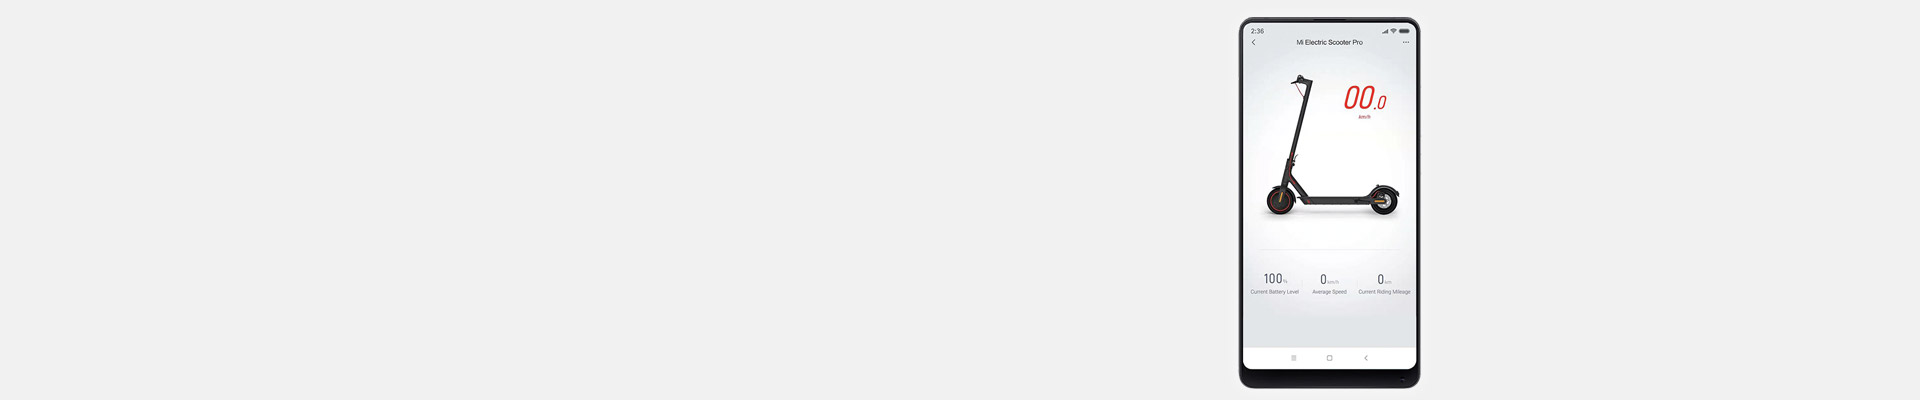
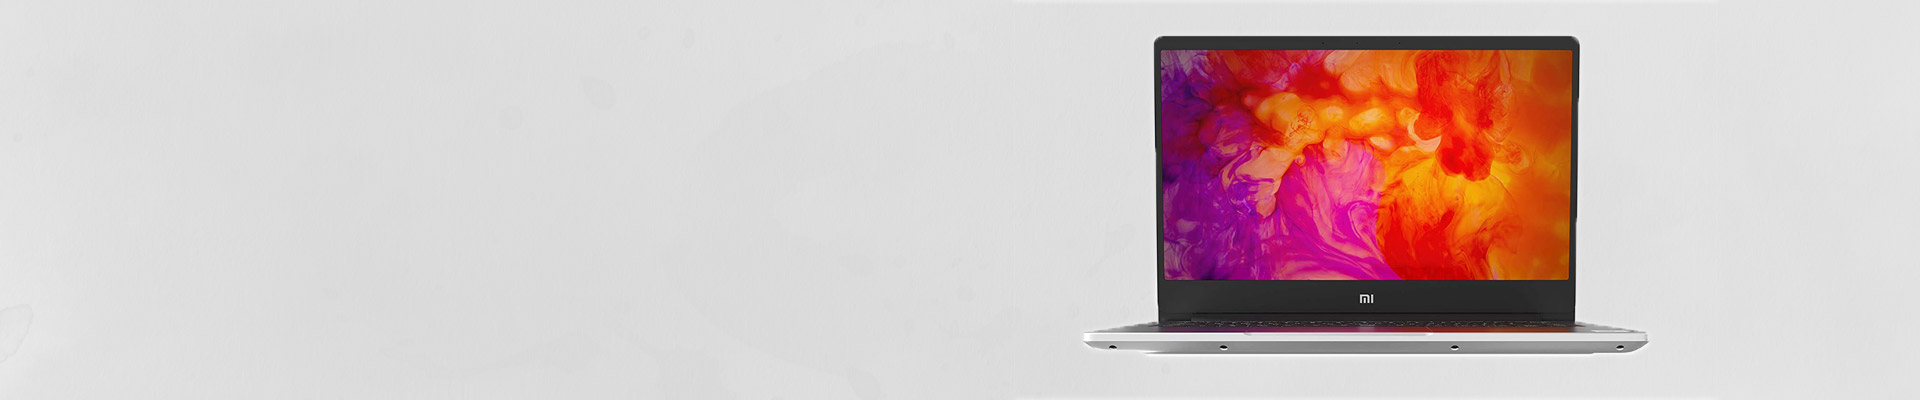
the latest version with no mistakes

Changed region(s): [[0.5625, 0.03, 0.875, 0.99], [0.3438, 0.96, 0.375, 1.0]]

diff --git a/Xiaomi-website/index.htm b/Xiaomi-website/index.htm
@@ -5,11 +5,14 @@
     <meta http-equiv="X-UA-Compatible" content="IE=edge">
     <meta name="viewport" content="width=device-width, initial-scale=1.0">
     <title>Xiaomi code test</title>
-    <link rel="stylesheet" href="mi.css">
+    <link rel="stylesheet" href="header-and-footer.css">
+    <link rel="stylesheet" href="body.css">
 </head>
 <body>
-    <div class="upperbarflex">
-        <div class="logo"><img src="logo.svg" alt="Xiaomi logo" alt="Xiaomi logo"></div>
+    <!-- START HEADER -->
+    <!-- Main bar with navigation and logo-->
+    <div id="upperbarflex">
+        <div class="logo"><img src="logo.svg" alt="Xiaomi logo"></div>
         <div class="middlefreespace"></div>
         <div class="rightnavi">
             <ul>
@@ -18,6 +21,7 @@
             </ul>
         </div>
     </div>
+    <!-- website's navigation menu-->
     <div class="navibar">
         <ul class=navibar2>
             <li><a href="#">Mi phones</a></li>
@@ -28,25 +32,81 @@
             <li><a href="#">Press & Media</a></li>
         </ul>
     </div>
+    <!-- main big laptop photo with description-->
     <div class="slideshow">
         <div class="flexbox2">
-            <div class="containerleft">
-            </div>
             <div class="containerright">
                 <br>
                 <br>
                 <br>
-                <h3>The new E-scooter is here</h3>
-                <p>Das kinetische System zur Rückgewinnung von Energie (KERS) wurde komplett überarbeitet und die Effizienz der Energieumwandlung zusätzlich verbessert. Das System ist in der Lage, kinetische Energie aus jedem Bremsvorgang und jedem Freilauf ohne Motorunterstützung in verwendbare elektrische Energie umzuwandeln, um die Reichweite der Motorunterstützung zu erweitern. Die Effizienz der Energie-Rückgewinnung kann über die Mi Home-App an Ihre persönlichen Anforderungen angepasst werden.</p>
+                <h3>Meet the new Mi Notebook 14</h3>
+                <p>Lorem ipsum dolor sit amet, consectetur adipiscing elit, sed do eiusmod tempor incididunt ut labore et dolore magna aliqua. Ut enim ad minim veniam, quis nostrud exercitation ullamco laboris nisi ut aliquip ex ea commodo consequat. Duis aute irure dolor in reprehenderit in voluptate velit esse cillum dolore eu fugiat nulla pariatur. Excepteur sint occaecat cupidatat non proident, sunt in culpa qui officia deserunt mollit anim id est laborum.</p>
+            </div>
+            <div class="containerleft">
             </div>
         </div>
     </div>
+    <!-- dark bar-->
     <div class="underslide">
-        <span class="reddo">››</span> Watch <a href="#">the full video</a> from the DeveloperWeek in Nuremberg
+        <span class="reddo">››</span> Watch the <a href="#">full video</a> of out Notebeek 14 reveal from the DeveloperWeek in Nuremberg
     </div>
+    <!-- START BODY -->
+    
     <div class="mainbody">
-        <h1>* HERE WILL BE THE MAIN CONTENT *</h1>
-      </div>
+        <!-- the new mifold-->
+        <div class="mifoldmain">
+            <div class="mifoldflex">
+                <h1>This is the moment you've been waiting for.</h1>
+                <p>We're proud to present our first foldable smartphone: MiMIXFOLD.</p>
+            </div>
+            <div class="mifoldflex">
+                <iframe width="560" height="315" src="https://www.youtube.com/embed/Kx4kfrD4NwI?controls=0" title="YouTube video player" frameborder="0" allow="accelerometer; autoplay; clipboard-write; encrypted-media; gyroscope; picture-in-picture" allowfullscreen></iframe>
+            </div>
+        </div>
+        <!-- latest products-->
+        <div class="behingthescenesflex">
+            <div class="orangeline"></div>
+            <h1>Our latest products</h1>
+            <div class="orangeline"></div>
+        </div>
+        <br>
+        <br>
+               <div class="productslayer1">
+            <a href="#"><img src="products/miprojector.jpg"></a>
+            <div class="productslayer2">
+                <a href="#"><img src="products/miwatch.jpg"></a>
+                <div class="productslayer3">
+                    <a href="#"><img src="products/miair.jpg"></a>
+                    <a href="#"><img src="products/mi11pro.jpg"></a>
+                </div>
+            </div>
+        </div>
+        <!-- Behind the scenes -->
+        <div class="behingthescenesflex">
+            <div class="orangeline"></div>
+            <h1>Behind the scenes</h1>
+            <div class="orangeline"></div>
+        </div>
+        <h3>Meet our heros from behind the scenes, who made this success possible</h3>
+        <div id="flexmitarbeiter">
+                <div class="mitarbeiter">
+                    <img class= "photos" src="obama.jpg" alt="Barack Obama">
+                    <p class="boldnames">Barack Obama</p>
+                    <p class="jobtitle">Rockets launcher</p>
+                </div>
+                <div class="mitarbeiter">
+                    <img class= "photos" src="me.jpg" alt="Mohammad Alshahwan">
+                    <p class="boldnames">Mohammad Alshahwan</p>
+                    <p class="jobtitle">Can cook rice</p>
+                </div>
+                <div class="mitarbeiter">
+                    <img class= "photos" src="angela.jpg" alt="Angela Merkel">
+                    <p class="boldnames">Angela Merkel</p>
+                    <p class="jobtitle">Refugees importer</p>
+                </div>
+        </div>
+    </div>
+    <!-- START FOOTER -->
     <div class="footercolor">
     <div class="footermain">
         <div class="rawfooter">
@@ -70,10 +130,10 @@
         <div class="rawfooter">
             <ul>
                 <li class="pfooter">Follow MI</li>
-                <li><a href="#">Facebook</a></li>
-                <li><a href="#">Youtube</a></li>
-                <li><a href="#">Instagram</a></li>
-                <li><a href="#">Twitter</a></li>
+                <li><img class="social-bullet" src="social/fb.png"><a href="#">Facebook</a></li>
+                <li><img class="social-bullet" src="social/yt.png"><a href="#">Youtube</a></li>
+                <li><img class="social-bullet" src="social/in.png"><a href="#">Instagram</a></li>
+                <li><img class="social-bullet" src="social/tw.png"><a href="#">Twitter</a></li>
             </ul>
         </div>
         <div class="rawfooter">
@@ -86,5 +146,6 @@
         </div>
     </div>
 </div>
+<!-- END FOOTER -->
 </body>
 </html>

diff --git a/Xiaomi-website/header-and-footer.css b/Xiaomi-website/header-and-footer.css
@@ -2,7 +2,7 @@ body {
     margin: 0px;
     font-family: 'Segoe UI', Tahoma, Geneva, Verdana, sans-serif;
 }
-.upperbarflex {
+#upperbarflex {
     display: flex;
     background-color: rgb(50, 50, 50);
     justify-content: center;
@@ -14,41 +14,41 @@ body {
 }
 .logo img {
     height: 50px;
-    margin: 0px 20px;
+    margin: 5px 20px 0px 20px;
 }
 .middlefreespace {
     flex:3
 }
 .rightnavi ul {
     flex:3;
-    text-align: right;
     list-style-type: none;
     color: white;
+    text-shadow: 0px 0px 4px #2c2c2c;
     margin-right: 20px;
     }
 .rightnavi ul .li1 {
     display: inline-block;
     margin: 0px 10px;
-    background-image: url("button-static1.gif");
+    background: #585858;
     border: 2px solid #2c2c2c;
     border-radius: 20px;
-    padding: 10px 12px;
+    padding: 5px 12px 8px 12px;
 }
 .rightnavi ul .li1:hover {
-    background-image: url("button-anim1.gif");
+    background: #464646;
 
 }
 .rightnavi ul .li2 {
     display: inline-block;
     margin: 0px 10px;
-    background-image: url("button-static2.gif");
+    background: #ec671b;
     border: 2px solid #b85115;
     border-radius: 20px;
-    padding: 10px 12px;
+    padding: 5px 12px 8px 12px;
+    text-align: left;
 }
 .rightnavi ul .li2:hover {
-    background-image: url("button-anim2.gif");
-
+    background: #b85115;
 }
 .rightnavi ul li a {
     text-decoration: none;
@@ -56,7 +56,6 @@ body {
     }
 .navibar {
     text-align: center;
-    /* background: #dddddd; */
     
 }
 .navibar2 {
@@ -75,9 +74,11 @@ body {
 .navibar2 li a:hover{
     color: #ffffff;
     background: #ec671b;
+    background-image: url(loop.gif);
 }
 .slideshow {
     background: url('slide.jpg');
+    background-color: darkgray;
     background-size:cover;
     height: 400px;
     }
@@ -85,7 +86,6 @@ body {
     display: flex;
     justify-content: center;
     align-items: center;
-    flex-direction: row-reverse;
     text-align: center;
     width: 70%;
     margin: 0px auto;
@@ -100,7 +100,7 @@ body {
     background: #ec671b;
     text-align: left;
     padding: 5px;
-    width: 230px;
+    width: 275px;
     color: white;
 }
 .containerright p{
@@ -116,7 +116,7 @@ body {
     text-align: center;
     Color: white;
     padding: 5px 0px;
-
+    border-top: 3px solid #eb681d ;
 }
 .underslide a{
     text-decoration: none;
@@ -125,11 +125,7 @@ body {
 .reddo {
     color:#eb681d;
 }
-.mainbody {
-    text-align: center;
-    margin:100px 0px;
 
-}
 .footercolor {
     background:rgb(50, 50, 50);
 }
@@ -150,11 +146,15 @@ body {
     text-decoration: none;
     color:rgb(226, 226, 226)
         }
+.rawfooter a:hover, .underslide a:hover{
+    color:#ec671b;
+}
 .footermain .rawfooter ul li{
     list-style-type: none;
     text-decoration: none;
     margin-bottom: 5px;
             }
+
 .pfooter {
     font-weight: bold;
     font-size: larger;
@@ -179,3 +179,8 @@ body {
     padding-bottom: 15px;
     padding-top: 20px;
 }
+.social-bullet {
+    width: 16px;
+    margin-right: 5px;
+    margin-bottom: -3px;
+    }

diff --git a/Xiaomi-website/body.css b/Xiaomi-website/body.css
@@ -1,0 +1,104 @@
+.mainbody {
+    margin: 0px auto;
+    width: 80%;
+    }
+.behingthescenesflex h1{
+    text-align: center;
+    font-size: 40px;
+    color: #eb681d;
+    margin-bottom: -10px;
+    }
+.mainbody h3 {
+    text-align: center;
+    font-weight:normal;
+    margin-bottom: 50px;
+}
+.mifoldmain {
+    display: flex;
+    justify-content: center;
+    align-items: center;
+    width: 80%;
+    margin: 30px auto;
+    flex-direction: row-reverse;
+}
+.mifoldflex h1 {
+    font-size: 50px;
+}
+.mifoldflex p {
+    font-size: 20px;
+}
+.mifoldflex{
+    margin: 0px 20px
+}
+.productslayer1 {
+    display: flex;
+    justify-content: center;
+    align-items: center;
+    margin: 0px auto;
+    width: 80%;
+    min-width: none;
+        }
+.productslayer1 img{
+    margin: 4px;
+    flex:1;
+}
+.productslayer1 img:hover{
+    outline: 4px solid rgb(173, 173, 173);;
+    outline-offset: -4px;
+}
+.productslayer2 {
+    flex:1;
+    display: flex;
+    flex-direction: column;
+    }
+
+.productslayer3{
+    display: flex;       
+    justify-content: center;
+    align-items: center;
+    }
+.productslayer3 img{
+    flex:1
+}
+.orangeline{
+    width: 20%;
+    height: 2px;
+    background-color: #eb681d;
+    margin-top: 42px;
+    margin-left: 20px;
+    margin-right: 20px;
+}
+
+#flexmitarbeiter, .behingthescenesflex {
+    display: flex;
+    justify-content: center;
+    align-items: center;
+    }
+#flexmitarbeiter {
+    width: 60%;
+    margin: 0px auto;
+
+}
+.mitarbeiter, .mifoldflex {
+    flex:1;
+    text-align: center;
+}
+
+.photos {
+    border-radius: 250px;
+    border: 3px solid #ec671b;
+    height: 150px;
+    margin: 10px 0px;
+}
+.photos:hover{
+    margin: 10px -2px;
+    box-shadow: 0px 0px 5px #eb681d;
+
+    }
+.boldnames {
+    font-weight: bold;
+}
+.jobtitle {
+    margin-top: -10px;
+    }
+
